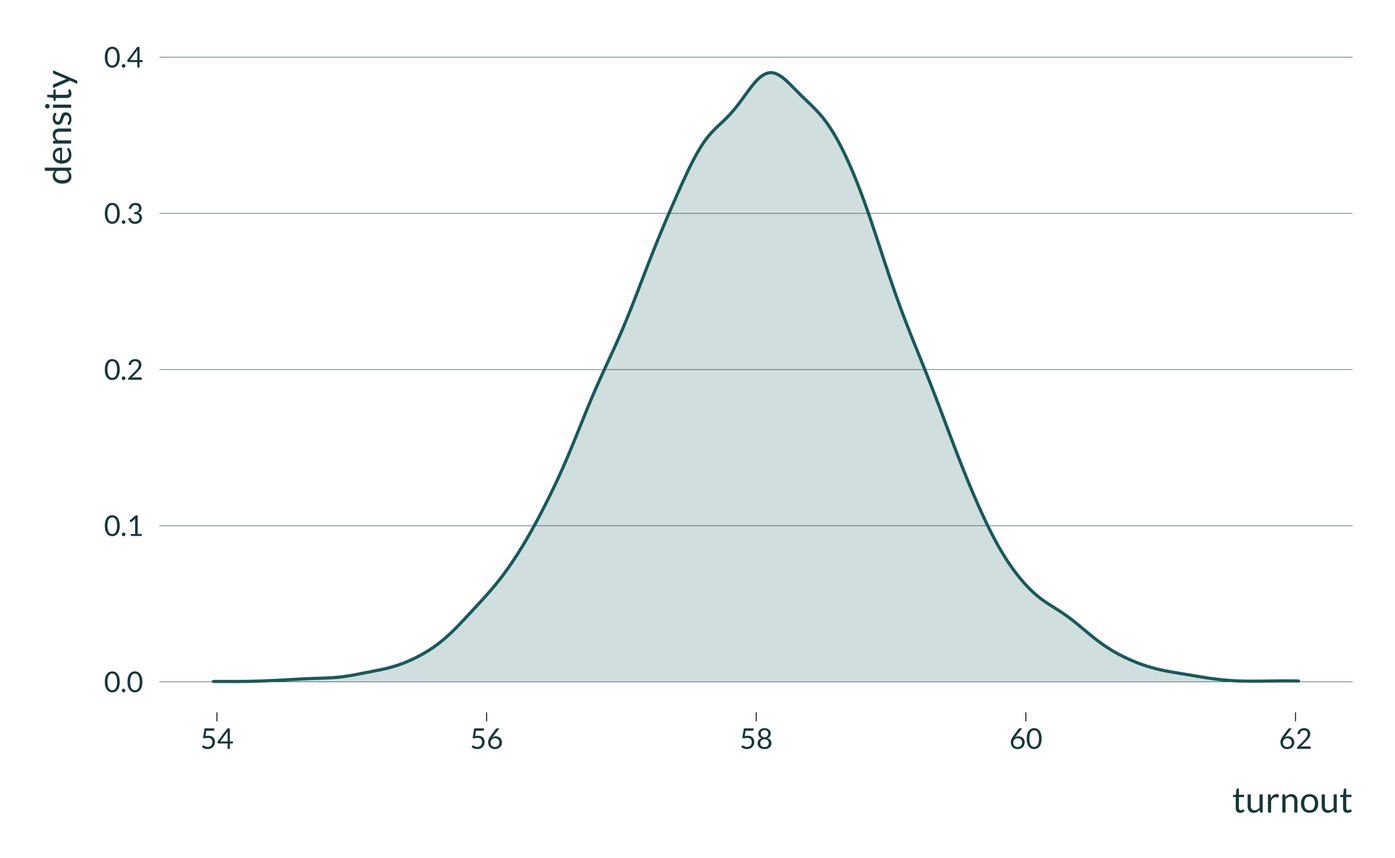
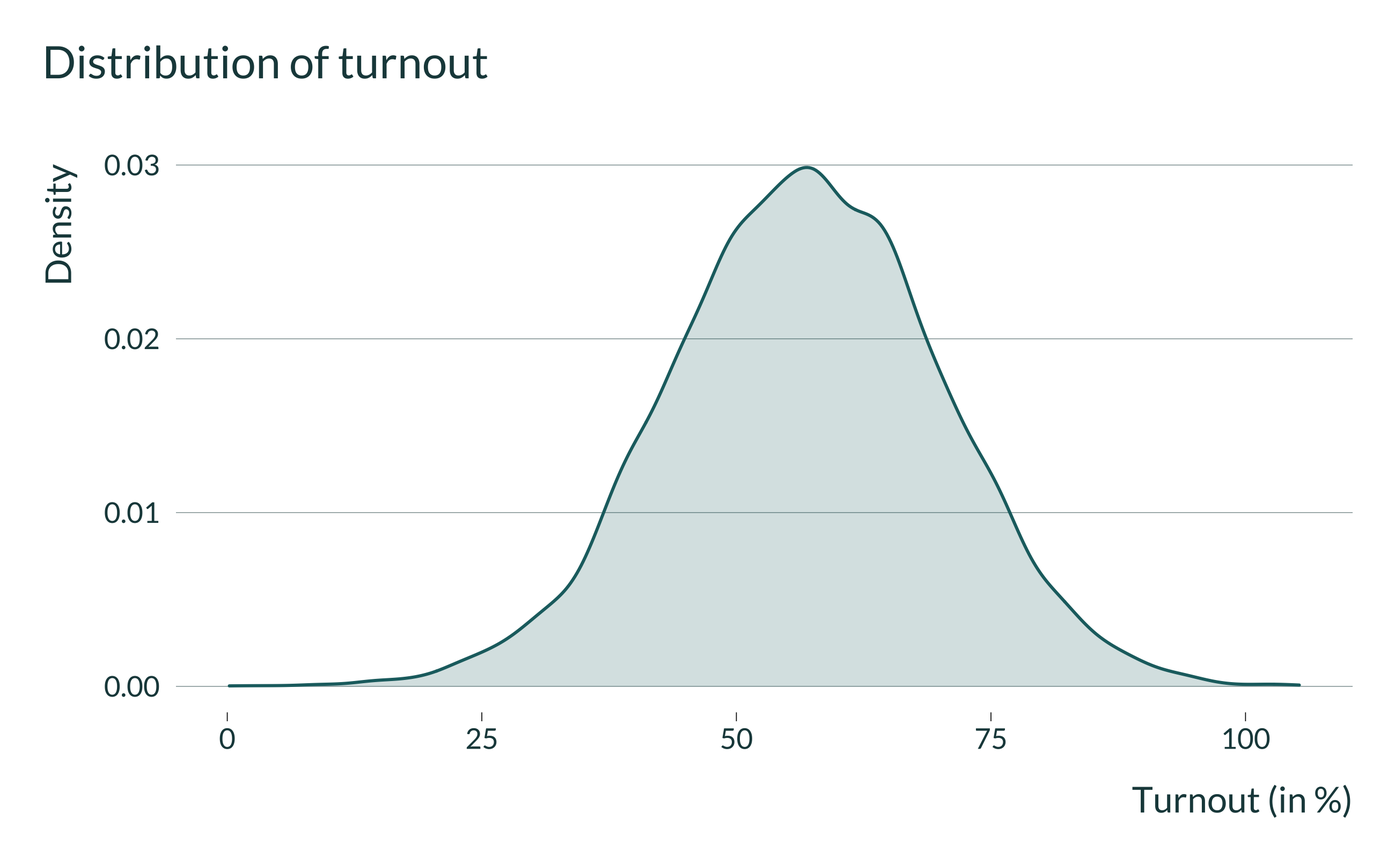
Calibrating value for IV parameters

diff --git a/docs/IV.html b/docs/IV.html
@@ -93,8 +93,8 @@ code span.wa { color: #5e5e5e; font-style: italic; } /* Warning */
   
   
   <!--  https://schema.org/Article -->
-  <meta property="article:published" itemprop="datePublished" content="2021-12-10"/>
-  <meta property="article:created" itemprop="dateCreated" content="2021-12-10"/>
+  <meta property="article:published" itemprop="datePublished" content="2021-12-12"/>
+  <meta property="article:created" itemprop="dateCreated" content="2021-12-12"/>
   <meta name="article:author" content="Vincent Bagilet"/>
   <meta name="article:author" content="Léo Zabrocki"/>
   
@@ -114,7 +114,7 @@ code span.wa { color: #5e5e5e; font-style: italic; } /* Warning */
   <!--radix_placeholder_rmarkdown_metadata-->
   
   <script type="text/json" id="radix-rmarkdown-metadata">
-  {"type":"list","attributes":{"names":{"type":"character","attributes":{},"value":["title","description","author","date","output","editor_options"]}},"value":[{"type":"character","attributes":{},"value":["Simulations IV"]},{"type":"character","attributes":{},"value":["In this document, we run a simulation exercise to illustrate the existence of a trade-off between Omitted Variable Bias (OVB) and type M error in the context of an Instrumental Variable (IV) strategy."]},{"type":"list","attributes":{},"value":[{"type":"list","attributes":{"names":{"type":"character","attributes":{},"value":["name","url","affiliation","affiliation_url"]}},"value":[{"type":"character","attributes":{},"value":["Vincent Bagilet"]},{"type":"character","attributes":{},"value":["https://vincentbagilet.github.io/"]},{"type":"character","attributes":{},"value":["Columbia University"]},{"type":"character","attributes":{},"value":["https://www.columbia.edu/"]}]},{"type":"list","attributes":{"names":{"type":"character","attributes":{},"value":["name","url","affiliation","affiliation_url"]}},"value":[{"type":"character","attributes":{},"value":["Léo Zabrocki"]},{"type":"character","attributes":{},"value":["https://www.parisschoolofeconomics.eu/en/"]},{"type":"character","attributes":{},"value":["Paris School of Economics"]},{"type":"character","attributes":{},"value":["https://www.parisschoolofeconomics.eu/en/"]}]}]},{"type":"character","attributes":{},"value":["2021-12-10"]},{"type":"list","attributes":{"names":{"type":"character","attributes":{},"value":["distill::distill_article"]}},"value":[{"type":"list","attributes":{"names":{"type":"character","attributes":{},"value":["toc"]}},"value":[{"type":"logical","attributes":{},"value":[true]}]}]},{"type":"list","attributes":{"names":{"type":"character","attributes":{},"value":["chunk_output_type"]}},"value":[{"type":"character","attributes":{},"value":["console"]}]}]}
+  {"type":"list","attributes":{"names":{"type":"character","attributes":{},"value":["title","description","author","date","output","editor_options"]}},"value":[{"type":"character","attributes":{},"value":["Simulations IV"]},{"type":"character","attributes":{},"value":["In this document, we run a simulation exercise to illustrate the existence of a trade-off between Omitted Variable Bias (OVB) and type M error in the context of an Instrumental Variable (IV) strategy."]},{"type":"list","attributes":{},"value":[{"type":"list","attributes":{"names":{"type":"character","attributes":{},"value":["name","url","affiliation","affiliation_url"]}},"value":[{"type":"character","attributes":{},"value":["Vincent Bagilet"]},{"type":"character","attributes":{},"value":["https://vincentbagilet.github.io/"]},{"type":"character","attributes":{},"value":["Columbia University"]},{"type":"character","attributes":{},"value":["https://www.columbia.edu/"]}]},{"type":"list","attributes":{"names":{"type":"character","attributes":{},"value":["name","url","affiliation","affiliation_url"]}},"value":[{"type":"character","attributes":{},"value":["Léo Zabrocki"]},{"type":"character","attributes":{},"value":["https://www.parisschoolofeconomics.eu/en/"]},{"type":"character","attributes":{},"value":["Paris School of Economics"]},{"type":"character","attributes":{},"value":["https://www.parisschoolofeconomics.eu/en/"]}]}]},{"type":"character","attributes":{},"value":["2021-12-12"]},{"type":"list","attributes":{"names":{"type":"character","attributes":{},"value":["distill::distill_article"]}},"value":[{"type":"list","attributes":{"names":{"type":"character","attributes":{},"value":["toc"]}},"value":[{"type":"logical","attributes":{},"value":[true]}]}]},{"type":"list","attributes":{"names":{"type":"character","attributes":{},"value":["chunk_output_type"]}},"value":[{"type":"character","attributes":{},"value":["console"]}]}]}
   </script>
   <!--/radix_placeholder_rmarkdown_metadata-->
   <!--radix_placeholder_navigation_in_header-->
@@ -2144,7 +2144,7 @@ code span.wa { color: #5e5e5e; font-style: italic; } /* Warning */
 <!--radix_placeholder_front_matter-->
 
 <script id="distill-front-matter" type="text/json">
-{"title":"Simulations IV","description":"In this document, we run a simulation exercise to illustrate the existence of a trade-off between Omitted Variable Bias (OVB) and type M error in the context of an Instrumental Variable (IV) strategy.","authors":[{"author":"Vincent Bagilet","authorURL":"https://vincentbagilet.github.io/","affiliation":"Columbia University","affiliationURL":"https://www.columbia.edu/","orcidID":""},{"author":"Léo Zabrocki","authorURL":"https://www.parisschoolofeconomics.eu/en/","affiliation":"Paris School of Economics","affiliationURL":"https://www.parisschoolofeconomics.eu/en/","orcidID":""}],"publishedDate":"2021-12-10T00:00:00.000-05:00","citationText":"Bagilet & Zabrocki, 2021"}
+{"title":"Simulations IV","description":"In this document, we run a simulation exercise to illustrate the existence of a trade-off between Omitted Variable Bias (OVB) and type M error in the context of an Instrumental Variable (IV) strategy.","authors":[{"author":"Vincent Bagilet","authorURL":"https://vincentbagilet.github.io/","affiliation":"Columbia University","affiliationURL":"https://www.columbia.edu/","orcidID":""},{"author":"Léo Zabrocki","authorURL":"https://www.parisschoolofeconomics.eu/en/","affiliation":"Paris School of Economics","affiliationURL":"https://www.parisschoolofeconomics.eu/en/","orcidID":""}],"publishedDate":"2021-12-12T00:00:00.000-05:00","citationText":"Bagilet & Zabrocki, 2021"}
 </script>
 
 <!--/radix_placeholder_front_matter-->
@@ -2193,7 +2193,7 @@ Simulations
   
 ,   Léo Zabrocki <a href="https://www.parisschoolofeconomics.eu/en/" class="uri">https://www.parisschoolofeconomics.eu/en/</a> (Paris School of Economics)<a href="https://www.parisschoolofeconomics.eu/en/" class="uri">https://www.parisschoolofeconomics.eu/en/</a>
   
-<br/>2021-12-10
+<br/>2021-12-12
 </div>
 
 <div class="d-article">
@@ -2236,13 +2236,13 @@ text-align: justify}
 <div class="layout-chunk" data-layout="l-body">
 <p><img src="images/DAG_IV.png" width="70%" style="display: block; margin: auto;" /></p>
 </div>
-<p>The DGP for the vote share of let’s say the left party in location <span class="math inline">\(i\)</span>, <span class="math inline">\(Share_i\)</span>, is defined as follows:</p>
+<p>The DGP for the vote share of let’s say the republican party in location <span class="math inline">\(i\)</span>, <span class="math inline">\(Share_i\)</span>, is defined as follows:</p>
 <p><span class="math display">\[Share_{i} = \alpha + \beta Turnout_{i} + \delta u_{i} + e^{(S)}_{i}\]</span></p>
 <p>Where <span class="math inline">\(\alpha\)</span> is a constant, <span class="math inline">\(u\)</span> represents an unobserved variable and <span class="math inline">\(e^{(S)} \sim \mathcal{N}(0, \sigma_{e_S})\)</span> noise. <span class="math inline">\(\beta\)</span> is the parameter of interest. We call it ‘treatment effect’.</p>
 <p>The DGP for the turnout data is as follows:</p>
 <p><span class="math display">\[Turnout_{i} = \gamma + \lambda Rain_{i} + \eta u_{i} + e^{(T)}_{i}\]</span></p>
 <p>Where <span class="math inline">\(\mu\)</span> is a constant, <span class="math inline">\(Rain\)</span> is either a continuous variable (amount of rain in location <span class="math inline">\(i\)</span> on the day of the election) or a dummy variable (whether it rained or not) and <span class="math inline">\(e^{(T)} \sim \mathcal{N}(0, \sigma_{e_T})\)</span> noise. We refer to <span class="math inline">\(\lambda\)</span> as “IV strength”.</p>
-<p>The impact on voter turnout on election outcome (share of the left party) is estimated using 2 Stages Least Squares.</p>
+<p>The impact on voter turnout on election outcome (share of the republican party) is estimated using 2 Stages Least Squares.</p>
 <p>More precisely, we set:</p>
 <ul>
 <li><span class="math inline">\(N\)</span> the number of observations</li>
@@ -2250,15 +2250,17 @@ text-align: justify}
 <li><span class="math inline">\(u \sim \mathcal{N}(0, \sigma_{u}^{2})\)</span> the unobserved variable</li>
 <li><span class="math inline">\(e^{(S)} \sim \mathcal{N}(0, \sigma_{e_S}^{2})\)</span></li>
 <li><span class="math inline">\(e^{(T)} \sim \mathcal{N}(0, \sigma_{e_T}^{2})\)</span></li>
+<li>We assume that <span class="math inline">\(\delta = \eta\)</span> for simplicity. There is no actual basis for that and we may change that in the future.</li>
 </ul>
 <p>If one abstract from the name of the variable, they can notice that this setting is actually very general.</p>
 <h3 id="data-generation">Data generation</h3>
 <p>We write a simple function that generates the data. It takes as input the values of the different parameters and returns a data frame containing all the variables for this analysis.</p>
-<p>Note that the parameter <code>type_rain</code> describes whether <span class="math inline">\(Rain\)</span> is a random sample from a normal or bernoulli distribution. It can take the values <code>normal</code> or <code>bernoulli</code>. <code>param_rain</code> represents either <span class="math inline">\(\sigma_R\)</span> if <span class="math inline">\(Rain\)</span> is normal or <span class="math inline">\(p_R\)</span> if it is Bernoulli.</p>
+<p>Note that the parameter <code>type_rain</code> describes whether <span class="math inline">\(Rain\)</span> is a random sample from a normal or Bernoulli distribution. The distributions of rainfall heights can be approximated with a gamma distribution. The Bernoulli distribution is used if one only consider the impact of rain or no rain on voter turnout. A normal distribution does not represent actual rainfall distributions but is added to run these simulations in other contexts than linking rainfall, voter turnout and election outcomes.</p>
+<p><code>type_rain</code> can take the values <code>gamma</code>, <code>bernoulli</code> or <code>normal</code>. <code>param_rain</code> represents either <span class="math inline">\(\sigma_R\)</span> if <span class="math inline">\(Rain\)</span> is normal, <span class="math inline">\(p_R\)</span> if it is Bernoulli or a vector of shape and scale parameters for the gamma distribution.</p>
 <div class="layout-chunk" data-layout="l-body">
 <div class="sourceCode">
 <pre class="sourceCode r"><code class="sourceCode r"><span class='va'>generate_data_IV</span> <span class='op'>&lt;-</span> <span class='kw'>function</span><span class='op'>(</span><span class='va'>N</span>,
-                             <span class='va'>type_rain</span>, <span class='co'>#"normal" or "bernoulli"</span>
+                             <span class='va'>type_rain</span>, <span class='co'>#"gamma", "normal" or "bernoulli"</span>
                              <span class='va'>param_rain</span>,
                              <span class='va'>sigma_u</span>,
                              <span class='va'>sigma_es</span>,
@@ -2271,14 +2273,16 @@ text-align: justify}
                              <span class='op'>)</span> <span class='op'>{</span>
   
   <span class='kw'>if</span> <span class='op'>(</span><span class='va'>type_rain</span> <span class='op'>==</span> <span class='st'>"bernoulli"</span><span class='op'>)</span> <span class='op'>{</span>
-    <span class='va'>rain_gen</span> <span class='op'>&lt;-</span> <span class='fu'>rbernoulli</span><span class='op'>(</span><span class='va'>N</span>, <span class='va'>param_rain</span><span class='op'>)</span>
+    <span class='va'>rain_gen</span> <span class='op'>&lt;-</span> <span class='fu'>rbernoulli</span><span class='op'>(</span><span class='va'>N</span>, <span class='va'>param_rain</span><span class='op'>[</span><span class='fl'>1</span><span class='op'>]</span><span class='op'>)</span>
   <span class='op'>}</span> <span class='kw'>else</span> <span class='kw'>if</span> <span class='op'>(</span><span class='va'>type_rain</span> <span class='op'>==</span> <span class='st'>"normal"</span><span class='op'>)</span> <span class='op'>{</span>
-    <span class='va'>rain_gen</span> <span class='op'>&lt;-</span> <span class='fu'><a href='https://rdrr.io/r/stats/Normal.html'>rnorm</a></span><span class='op'>(</span><span class='va'>N</span>, <span class='fl'>0</span>, <span class='va'>param_rain</span><span class='op'>)</span>
+    <span class='va'>rain_gen</span> <span class='op'>&lt;-</span> <span class='fu'><a href='https://rdrr.io/r/stats/Normal.html'>rnorm</a></span><span class='op'>(</span><span class='va'>N</span>, <span class='fl'>0</span>, <span class='va'>param_rain</span><span class='op'>[</span><span class='fl'>1</span><span class='op'>]</span><span class='op'>)</span>
+  <span class='op'>}</span> <span class='kw'>else</span> <span class='kw'>if</span> <span class='op'>(</span><span class='va'>type_rain</span> <span class='op'>==</span> <span class='st'>"gamma"</span><span class='op'>)</span> <span class='op'>{</span>
+    <span class='va'>rain_gen</span> <span class='op'>&lt;-</span> <span class='fu'><a href='https://rdrr.io/r/stats/GammaDist.html'>rgamma</a></span><span class='op'>(</span><span class='va'>N</span>, shape <span class='op'>=</span> <span class='va'>param_rain</span><span class='op'>[</span><span class='fl'>1</span><span class='op'>]</span>, scale <span class='op'>=</span> <span class='va'>param_rain</span><span class='op'>[</span><span class='fl'>2</span><span class='op'>]</span><span class='op'>)</span>
   <span class='op'>}</span> <span class='kw'>else</span> <span class='op'>{</span>
-    <span class='kw'><a href='https://rdrr.io/r/base/stop.html'>stop</a></span><span class='op'>(</span><span class='st'>"type_rain must be either 'bernoulli' or 'normal'"</span><span class='op'>)</span>
-  <span class='op'>}</span> 
+    <span class='kw'><a href='https://rdrr.io/r/base/stop.html'>stop</a></span><span class='op'>(</span><span class='st'>"type_rain must be either 'bernoulli', 'gamma' or 'normal'"</span><span class='op'>)</span>
+  <span class='op'>}</span>
   
-  <span class='va'>data</span> <span class='op'>&lt;-</span> <span class='fu'>tibble</span><span class='op'>(</span>id <span class='op'>=</span> <span class='fl'>1</span><span class='op'>:</span><span class='va'>N</span><span class='op'>)</span> <span class='op'>%&gt;%</span> 
+  <span class='va'>data</span> <span class='op'>&lt;-</span> <span class='fu'>tibble</span><span class='op'>(</span>id <span class='op'>=</span> <span class='fl'>1</span><span class='op'>:</span><span class='va'>N</span><span class='op'>)</span> <span class='op'>%&gt;%</span>
     <span class='fu'>mutate</span><span class='op'>(</span>
       rain <span class='op'>=</span> <span class='va'>rain_gen</span>,
       u <span class='op'>=</span> <span class='fu'><a href='https://rdrr.io/r/stats/Normal.html'>rnorm</a></span><span class='op'>(</span><span class='fu'><a href='https://rdrr.io/r/base/nrow.html'>nrow</a></span><span class='op'>(</span><span class='va'>.</span><span class='op'>)</span>, <span class='fl'>0</span>, <span class='va'>sigma_u</span><span class='op'>)</span>,
@@ -2287,7 +2291,7 @@ text-align: justify}
       turnout <span class='op'>=</span> <span class='va'>gamma</span> <span class='op'>+</span> <span class='va'>iv_strength</span><span class='op'>*</span><span class='va'>rain</span> <span class='op'>+</span> <span class='va'>ovb_intensity</span><span class='op'>*</span><span class='va'>u</span> <span class='op'>+</span> <span class='va'>e_t</span>,
       share <span class='op'>=</span> <span class='va'>alpha</span> <span class='op'>+</span> <span class='va'>treatment_effect</span><span class='op'>*</span><span class='va'>turnout</span> <span class='op'>+</span> <span class='va'>ovb_intensity</span><span class='op'>*</span><span class='va'>u</span> <span class='op'>+</span> <span class='va'>e_s</span>
     <span class='op'>)</span>
-  
+
   <span class='kw'><a href='https://rdrr.io/r/base/function.html'>return</a></span><span class='op'>(</span><span class='va'>data</span><span class='op'>)</span>
 <span class='op'>}</span>
 </code></pre>
@@ -2295,20 +2299,33 @@ text-align: justify}
 </div>
 <p>We set baseline values for the parameters to emulate a somehow realistic observational study. We add the parameter value for delta separately as we will vary the value later and will reuse the vector <code>baseline_parameters_IV</code>.</p>
 <p>We get “inspiration” for the values of parameters from <a href="https://www.aeaweb.org/articles?id=10.1257/app.20140533">Fujiwara et al.</a> and <a href="https://www.cambridge.org/core/journals/political-analysis/article/randomization-inference-with-rainfall-data-using-historical-weather-patterns-for-variance-estimation/2F86BE9EB79FDFF9FF97C8C5CC4A2ED3">Cooperman</a> who replicates a work by <a href="https://www.jstor.org/stable/10.1111/j.1468-2508.2007.00565.x?pq-origsite=360link&amp;seq=1#metadata_info_tab_contents">Gomez et al.</a>.</p>
-<p>We consider that: - turnout and vote share are expressed in percent - Fujiwara et al. find that “The trends specifications suggest that 1 millimeter of rainfall decreases turnout by 0.05–0.07 percentage points” and Gomez et al. (and thus Cooperman) find “a county that receives one inch of rainfall on election day is likely to have approximately 1 percentage point lower voter turnout” which is equivalent to a 1mm increase in rainfall is associated with about a 0.04 percentage points decrease in voter turnout. - For simplicity in interpretation, when rainfall is not a dummy, it is expressed in centimeters. So, we will consider iv_strength in the range -0.1 and -1 - We set the standard deviation of the omitted variable bias to be of the order of magnitude of the treatment effect - We calibrate the distribution parameters to fit a mix if information from table 1 from both Fujiwara et al. and Cooperman (converting the rainfall into centimeters): - The parameters of the distribution of rainfall are comparable in both papers - We set the intercepts and standard deviations of the errors to produce turnouts and vote shares consistent with the papers</p>
+<p>We consider that:</p>
+<ul>
+<li>turnout and vote share are expressed in percent</li>
+<li>Fujiwara et al. find that “The trends specifications suggest that 1 millimeter of rainfall decreases turnout by 0.05–0.07 percentage points” and Gomez et al. (and thus Cooperman) find “a county that receives one inch of rainfall on election day is likely to have approximately 1 percentage point lower voter turnout” which is equivalent to a 1mm increase in rainfall is associated with about a 0.04 percentage points decrease in voter turnout.</li>
+<li>For simplicity in interpretation, when rainfall is not a dummy, it is expressed in centimeters. So, we will consider iv_strength in the range -0.1 and -1</li>
+<li>We set the standard deviation of the omitted variable bias to be of the order of magnitude of the treatment effect</li>
+<li>We calibrate the distribution parameters to fit a mix if information from table 1 from both Fujiwara et al. and Cooperman (converting the rainfall into centimeters):
+<ul>
+<li>A gamma distribution represents well the distribution of rainfall. Gamma distribution can have two parameters a shape and a scale. The mean is <span class="math inline">\(shape \times scale\)</span> and the variance <span class="math inline">\(shape \times scale^{2}\)</span>. The parameters of the distribution of rainfall are comparable in both papers (mean 2.4 and standard deviation 6.6). We solve the system of mean and variance for shape and scale and get 0.13 and 18.</li>
+<li>We set the intercepts and standard deviations of the errors to produce turnouts and vote shares consistent with the papers. Voter turnout parameters are roughly similar in both papers and mean and standard deviation of Republican vote share are given in Fujiwara et al. (mean 55.3 and sd 14.2). We may actually take values from a recent election (<em>eg</em> the last presidential election)</li>
+</ul></li>
+</ul>
 <p>We thus consider the following parameters:</p>
 <div class="layout-chunk" data-layout="l-body">
 <div class="sourceCode">
 <pre class="sourceCode r"><code class="sourceCode r"><span class='va'>simple_parameters_IV</span> <span class='op'>&lt;-</span> <span class='fu'>tibble</span><span class='op'>(</span>
   N <span class='op'>=</span> <span class='fl'>500</span>,
-  type_rain <span class='op'>=</span> <span class='st'>"bernoulli"</span>,
-  param_rain <span class='op'>=</span> <span class='fl'>0.3</span>,
-  sigma_u <span class='op'>=</span> <span class='fl'>0.5</span>,
-  sigma_es <span class='op'>=</span> <span class='fl'>1</span>,
-  sigma_et <span class='op'>=</span> <span class='fl'>1</span>,
-  alpha <span class='op'>=</span> <span class='fl'>0</span>,
+  <span class='co'># type_rain = "bernoulli",</span>
+  <span class='co'># param_rain = 0.4,</span>
+  type_rain <span class='op'>=</span> <span class='st'>"gamma"</span>,
+  param_rain <span class='op'>=</span> <span class='fu'><a href='https://rdrr.io/r/base/list.html'>list</a></span><span class='op'>(</span><span class='fu'><a href='https://rdrr.io/r/base/c.html'>c</a></span><span class='op'>(</span><span class='fl'>0.13</span>, <span class='fl'>18</span><span class='op'>)</span><span class='op'>)</span>,
+  sigma_u <span class='op'>=</span> <span class='fl'>1</span>,
+  sigma_es <span class='op'>=</span> <span class='fl'>14</span>,
+  sigma_et <span class='op'>=</span> <span class='fl'>13</span>,
+  alpha <span class='op'>=</span> <span class='fl'>46</span>,
   gamma <span class='op'>=</span> <span class='fl'>58</span>,
-  treatment_effect <span class='op'>=</span> <span class='op'>-</span><span class='fl'>1</span>
+  treatment_effect <span class='op'>=</span> <span class='fl'>0.1</span>
 <span class='op'>)</span>
 </code></pre>
 </div>
@@ -2319,7 +2336,7 @@ text-align: justify}
 <thead>
 <tr class="header">
 <th style="text-align: right;">id</th>
-<th style="text-align: left;">rain</th>
+<th style="text-align: right;">rain</th>
 <th style="text-align: right;">u</th>
 <th style="text-align: right;">e_s</th>
 <th style="text-align: right;">e_t</th>
@@ -2330,93 +2347,93 @@ text-align: justify}
 <tbody>
 <tr class="odd">
 <td style="text-align: right;">1</td>
-<td style="text-align: left;">FALSE</td>
-<td style="text-align: right;">0.4249975</td>
-<td style="text-align: right;">0.6086449</td>
-<td style="text-align: right;">1.2259967</td>
-<td style="text-align: right;">59.39600</td>
-<td style="text-align: right;">-58.61735</td>
+<td style="text-align: right;">3.0574441</td>
+<td style="text-align: right;">-0.8294114</td>
+<td style="text-align: right;">-29.254425</td>
+<td style="text-align: right;">5.667384</td>
+<td style="text-align: right;">61.72396</td>
+<td style="text-align: right;">22.50326</td>
 </tr>
 <tr class="even">
 <td style="text-align: right;">2</td>
-<td style="text-align: left;">FALSE</td>
-<td style="text-align: right;">-1.2548450</td>
-<td style="text-align: right;">0.0828901</td>
-<td style="text-align: right;">-0.7076029</td>
-<td style="text-align: right;">56.79046</td>
-<td style="text-align: right;">-57.20951</td>
+<td style="text-align: right;">0.2050471</td>
+<td style="text-align: right;">-0.5142643</td>
+<td style="text-align: right;">-14.680366</td>
+<td style="text-align: right;">2.441481</td>
+<td style="text-align: right;">60.08183</td>
+<td style="text-align: right;">37.07068</td>
 </tr>
 <tr class="odd">
 <td style="text-align: right;">3</td>
-<td style="text-align: left;">FALSE</td>
-<td style="text-align: right;">0.1798613</td>
-<td style="text-align: right;">-0.7690986</td>
-<td style="text-align: right;">1.2612999</td>
-<td style="text-align: right;">59.33324</td>
-<td style="text-align: right;">-60.03040</td>
+<td style="text-align: right;">0.1597400</td>
+<td style="text-align: right;">1.5165094</td>
+<td style="text-align: right;">22.014852</td>
+<td style="text-align: right;">-20.892347</td>
+<td style="text-align: right;">37.78604</td>
+<td style="text-align: right;">72.55171</td>
 </tr>
 <tr class="even">
 <td style="text-align: right;">4</td>
-<td style="text-align: left;">FALSE</td>
-<td style="text-align: right;">0.3077865</td>
-<td style="text-align: right;">0.1983435</td>
-<td style="text-align: right;">1.9785855</td>
-<td style="text-align: right;">60.10170</td>
-<td style="text-align: right;">-59.78024</td>
+<td style="text-align: right;">0.3884792</td>
+<td style="text-align: right;">0.8240749</td>
+<td style="text-align: right;">-18.802057</td>
+<td style="text-align: right;">6.419377</td>
+<td style="text-align: right;">64.63717</td>
+<td style="text-align: right;">34.07370</td>
 </tr>
 <tr class="odd">
 <td style="text-align: right;">5</td>
-<td style="text-align: left;">TRUE</td>
-<td style="text-align: right;">0.4491355</td>
-<td style="text-align: right;">-0.5443693</td>
-<td style="text-align: right;">0.7099674</td>
-<td style="text-align: right;">59.08962</td>
-<td style="text-align: right;">-59.45434</td>
+<td style="text-align: right;">0.0011305</td>
+<td style="text-align: right;">1.3628760</td>
+<td style="text-align: right;">-15.877077</td>
+<td style="text-align: right;">17.154933</td>
+<td style="text-align: right;">75.83581</td>
+<td style="text-align: right;">38.38794</td>
 </tr>
 <tr class="even">
 <td style="text-align: right;">6</td>
-<td style="text-align: left;">FALSE</td>
-<td style="text-align: right;">0.3973806</td>
-<td style="text-align: right;">-0.0020210</td>
-<td style="text-align: right;">-1.6587649</td>
-<td style="text-align: right;">56.50019</td>
-<td style="text-align: right;">-56.34326</td>
+<td style="text-align: right;">0.4263613</td>
+<td style="text-align: right;">-0.5914027</td>
+<td style="text-align: right;">-22.301613</td>
+<td style="text-align: right;">-13.771920</td>
+<td style="text-align: right;">43.71920</td>
+<td style="text-align: right;">27.77461</td>
 </tr>
 <tr class="odd">
 <td style="text-align: right;">7</td>
-<td style="text-align: left;">TRUE</td>
-<td style="text-align: right;">-0.0332611</td>
-<td style="text-align: right;">-1.8336245</td>
-<td style="text-align: right;">0.1706555</td>
-<td style="text-align: right;">58.35735</td>
-<td style="text-align: right;">-60.20428</td>
+<td style="text-align: right;">0.0001286</td>
+<td style="text-align: right;">-0.5448769</td>
+<td style="text-align: right;">-22.908412</td>
+<td style="text-align: right;">-2.325510</td>
+<td style="text-align: right;">55.40199</td>
+<td style="text-align: right;">28.35935</td>
 </tr>
 <tr class="even">
 <td style="text-align: right;">8</td>
-<td style="text-align: left;">FALSE</td>
-<td style="text-align: right;">-0.0839857</td>
-<td style="text-align: right;">-0.9257180</td>
-<td style="text-align: right;">0.2858383</td>
-<td style="text-align: right;">58.25224</td>
-<td style="text-align: right;">-59.21156</td>
+<td style="text-align: right;">5.9723442</td>
+<td style="text-align: right;">0.3015408</td>
+<td style="text-align: right;">15.871389</td>
+<td style="text-align: right;">-12.698589</td>
+<td style="text-align: right;">42.46601</td>
+<td style="text-align: right;">66.26876</td>
 </tr>
 <tr class="odd">
 <td style="text-align: right;">9</td>
-<td style="text-align: left;">TRUE</td>
-<td style="text-align: right;">0.2006285</td>
-<td style="text-align: right;">-0.9382267</td>
-<td style="text-align: right;">-0.0275321</td>
-<td style="text-align: right;">58.25272</td>
-<td style="text-align: right;">-59.11069</td>
+<td style="text-align: right;">0.0204932</td>
+<td style="text-align: right;">1.0525098</td>
+<td style="text-align: right;">7.618037</td>
+<td style="text-align: right;">11.886754</td>
+<td style="text-align: right;">70.40276</td>
+<td style="text-align: right;">61.18457</td>
 </tr>
 <tr class="even">
 <td style="text-align: right;">10</td>
-<td style="text-align: left;">FALSE</td>
-<td style="text-align: right;">0.2091200</td>
-<td style="text-align: right;">-0.2154140</td>
-<td style="text-align: right;">-2.4111406</td>
-<td style="text-align: right;">55.67251</td>
-<td style="text-align: right;">-55.80427</td>
+<td style="text-align: right;">0.0565477</td>
+<td style="text-align: right;">1.4307498</td>
+<td style="text-align: right;">9.217846</td>
+<td style="text-align: right;">19.223134</td>
+<td style="text-align: right;">77.91024</td>
+<td style="text-align: right;">63.72424</td>
 </tr>
 </tbody>
 </table>
@@ -2424,17 +2441,8 @@ text-align: justify}
 <h4 id="exploring-the-distribution-of-the-data">Exploring the distribution of the data</h4>
 <p>We just quickly explore the distribution of the data for a baseline set of parameters</p>
 <div class="layout-chunk" data-layout="l-body">
-<p><img src="images/explore_data_IV-1.png" width="85%" style="display: block; margin: auto;" /><img src="images/explore_data_IV-2.png" width="85%" style="display: block; margin: auto;" /><img src="images/explore_data_IV-3.png" width="85%" style="display: block; margin: auto;" /></p>
+<p><img src="images/explore_data_IV-1.png" width="85%" style="display: block; margin: auto;" /><img src="images/explore_data_IV-2.png" width="85%" style="display: block; margin: auto;" /></p>
 </div>
-<!-- ```{r} -->
-<!-- ex_data_IV <- simple_parameters_IV %>%  -->
-<!--   mutate(N = 1000, iv_strength = 0.2, ovb_intensity = 0.4) %>%  -->
-<!--   pmap_dfr(generate_data_IV)  -->
-<!-- ex_data_IV %>%  -->
-<!--   ggplot(aes(x = rain, y = y)) + -->
-<!--   geom_point() + -->
-<!--   geom_smooth(method = "lm") -->
-<!-- ``` -->
 <h3 id="estimation">Estimation</h3>
 <p>After generating the data, we can run an estimation. We want to compare the IV and the OLS for different IV strength values. Hence, we need to estimate both an IV and an OLS and return both set of outcomes of interest.</p>
 <div class="layout-chunk" data-layout="l-body">
